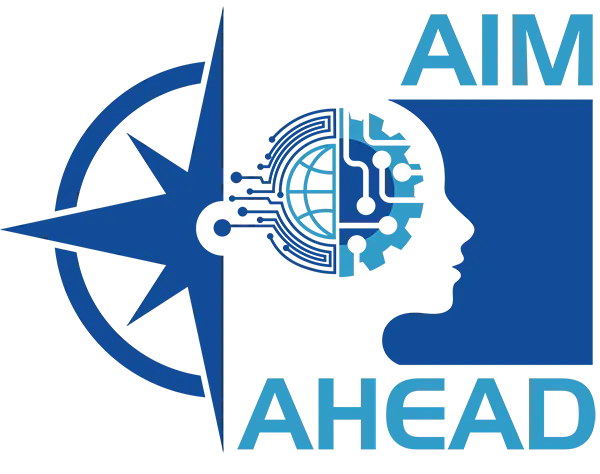
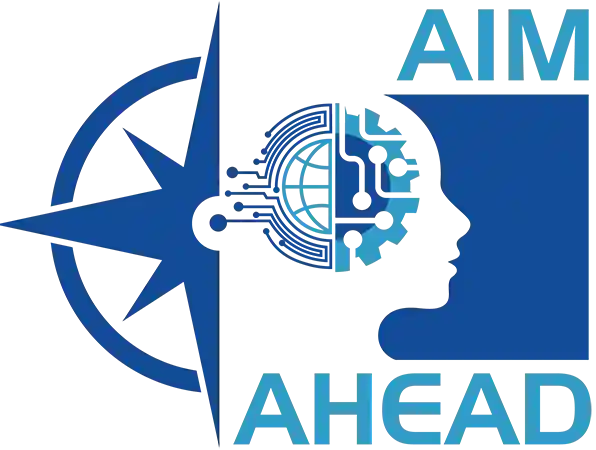
made the image larger to enhance visual appeal

diff --git a/dashboard_sdoh/map/templates/maps/sdoh_municipality.html b/dashboard_sdoh/map/templates/maps/sdoh_municipality.html
@@ -129,8 +129,8 @@
         order: 2;
       }
       .header-logo {
-        height: 40px;
-        max-width: 120px;
+        height: 70px;
+        max-width: 200px;
         object-fit: contain;
       }
 
@@ -401,8 +401,8 @@
           display: contents;
         }
         .header-logo {
-          height: 50px;
-          max-width: none;
+          height: 90px;
+          max-width: 260px;
         }
         img[alt="AIM AHEAD Logo"] {
           order: 1;
@@ -764,7 +764,7 @@
           colors: GOOD_LOW_COLORS,
           unit: "%",
           description:
-            "<strong>Cardiovascular Risk:</strong> \nPercentage of population at High Risk for Coronary Heart Disease. Higher percentage is worse.",
+            "<strong>Cardiovascular Risk:</strong> \nPercentage of population at High Risk for Coronary Heart Disease.",
         },
         AO_High: {
           // This is your default selected metric
@@ -775,7 +775,7 @@
           colors: GOOD_LOW_COLORS,
           unit: "%",
           description:
-            "<strong>Cardiovascular Risk:</strong> \nPercentage of population at High Risk for Arterial Obstruction. Higher percentage is worse.",
+            "<strong>Cardiovascular Risk:</strong> \nPercentage of population at High Risk for Arterial Obstruction.",
         },
         HA_High: {
           displayName: "Risk of Heart Attack",
@@ -789,7 +789,7 @@
           colors: GOOD_LOW_COLORS,
           unit: "%",
           description:
-            "<strong>Cardiovascular Risk:</strong> \nPercentage of population at High Risk for Heart Attack or Atherosclerosis. Higher percentage is worse.",
+            "<strong>Cardiovascular Risk:</strong> \nPercentage of population at High Risk for Heart Attack or Atherosclerosis.",
         },
         // Vitamin D Risks
         VitD_Deficiency: {
@@ -800,7 +800,7 @@
           colors: GOOD_LOW_COLORS,
           unit: "%",
           description:
-            "<strong>Vitamin D Risk:</strong> \nPercentage of population with Vitamin D Deficiency. Higher percentage indicates greater prevalence.",
+            "<strong>Vitamin D Risk:</strong> \nPercentage of population with Vitamin D Deficiency.",
         },
         VitD_Toxicity: {
           displayName: "Risk of Vitamin D Toxicity",
@@ -810,7 +810,7 @@
           colors: GOOD_LOW_COLORS,
           unit: "%",
           description:
-            "<strong>Vitamin D Risk:</strong> \nPercentage of population with Vitamin D Toxicity. Higher percentage indicates greater prevalence.",
+            "<strong>Vitamin D Risk:</strong> \nPercentage of population with Vitamin D Toxicity.",
         },
 
         // --- NEW HEALTH METRICS START ---
@@ -823,7 +823,7 @@
           colors: GOOD_LOW_COLORS,
           unit: "%",
           description:
-            "<strong>Liver Risk:</strong>\nPercentage of population with Severe kidney function decline (eGFR). Higher is worse.",
+            "<strong>Liver Risk:</strong>\nPercentage of population with Severe kidney function decline (eGFR).",
         },
         /*eGFR_High: {
           displayName: "eGFR Risk (High/Moderate Decline %)",
@@ -865,7 +865,7 @@
           colors: GOOD_LOW_COLORS,
           unit: "%",
           description:
-            "<strong>Kidney Risk:</strong>\nPercentage of population with a High BUN/Creatinine Ratio. Higher is generally worse.",
+            "<strong>Kidney Risk:</strong>\nPercentage of population with a High BUN/Creatinine Ratio.",
         },
         /*BCR_Low: {
           displayName: "BUN/Creatinine Ratio (Low %)",
@@ -901,7 +901,7 @@
           colors: GOOD_LOW_COLORS,
           unit: "%",
           description:
-            "<strong>Liver Risk:</strong>\nPercentage of population whose AST/ALT ratio suggests fibrosis or active hepatitis. Higher is worse.",
+            "<strong>Liver Risk:</strong>\nPercentage of population whose AST/ALT ratio suggests fibrosis or active hepatitis.",
         },
         /*AAR_MildFattyLiver: {
           displayName: "AST/ALT Ratio (Mild Fatty Liver %)",
@@ -927,7 +927,7 @@
           colors: GOOD_LOW_COLORS,
           unit: "%",
           description:
-            "<strong>Liver Risk:</strong>\nPercentage of population at High Risk for liver fibrosis based on APRI score. Higher is worse.",
+            "<strong>Liver Risk:</strong>\nPercentage of population at High Risk for liver fibrosis based on APRI score.",
         },
         /*APRI_Moderate: {
           displayName: "APRI Score (Moderate Risk %)",
@@ -963,7 +963,7 @@
           colors: GOOD_LOW_COLORS,
           unit: "%",
           description:
-            "<strong>Liver Risk:</strong>\nPercentage of population at High Risk for liver fibrosis based on FIB-4 Index. Higher is worse.",
+            "<strong>Liver Risk:</strong>\nPercentage of population at High Risk for liver fibrosis based on FIB-4 Index.",
         },
         /*FIB4_Mild: {
           displayName: "FIB-4 Index (Mild Risk %)",
